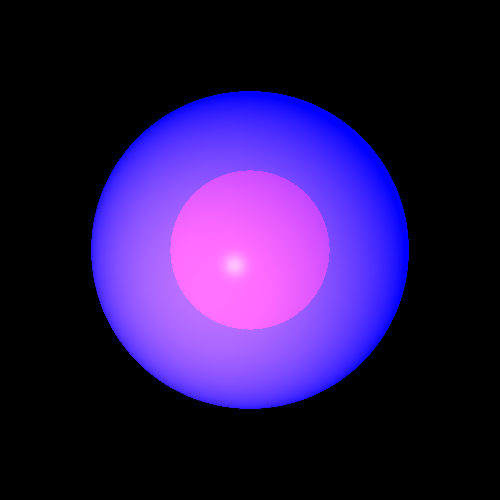
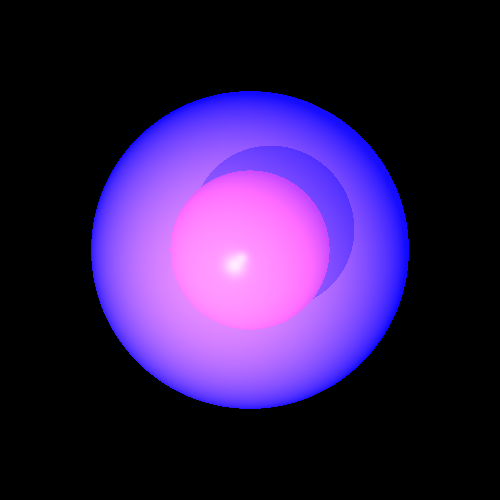
ex#7 finish level 2!

Changed region(s): [[0.21, 0.18, 0.81, 0.78]]

diff --git a/src/renderer/BasicRayTracer.java b/src/renderer/BasicRayTracer.java
@@ -29,11 +29,6 @@ public class BasicRayTracer extends RayTraceBase {
     private static final double INITIAL_K = 1.0;
 
     /**
-     * todo
-     */
-    private static final double DELTA =0.1;
-
-    /**
      * CTOR
      *
      * @param scene The scene where we look for the intersections
@@ -54,13 +49,8 @@ public class BasicRayTracer extends RayTraceBase {
      */
     @Override
     public Color traceRay(Ray ray) {
-        List<GeoPoint> points = scene.geometries.findGeoIntersections(ray);
-        if(points == null)
-            return scene.background;
-        else {
-            GeoPoint point = ray.getClosestGeoPoint(points);
-            return calcColor(point,ray);
-        }
+        GeoPoint geoPoint = findClosestIntersection(ray);
+        return geoPoint == null ? scene.background : calcColor(geoPoint,ray);
     }
 
     /**
@@ -78,7 +68,7 @@ public class BasicRayTracer extends RayTraceBase {
      * @return The color at the given point
      */
     private Color calcColor (GeoPoint closestPoint, Ray ray){
-        return calcColor(closestPoint,ray,MAX_CALC_COLOR_LEVEL,INITIAL_K).add(scene.ambientLight.getIntensity());
+        return calcColor(closestPoint, ray, MAX_CALC_COLOR_LEVEL, INITIAL_K).add(scene.ambientLight.getIntensity());
     }
 
     /**
@@ -93,8 +83,8 @@ public class BasicRayTracer extends RayTraceBase {
      */
     private  Color calcColor(GeoPoint intersection,Ray ray, int level, double k){
         Color color = intersection.geometry.getEmission();
-        color = color.add(calcLocalEffects(intersection,ray));
-        return 1 == level ? color : color.add(calcGlobalEffects(intersection,ray,level,k));
+        color = color.add(calcLocalEffects(intersection, ray));
+        return 1 == level ? color : color.add(calcGlobalEffects(intersection, ray, level, k));
     }
 
     /**
@@ -111,7 +101,7 @@ public class BasicRayTracer extends RayTraceBase {
      */
     private Color calcDiffusive(double kd,Vector l, Vector n, Color lightIntensity) {
         double ln = Math.abs(l.dotProduct(n));
-        return lightIntensity.scale(kd*ln);
+        return lightIntensity.scale(kd * ln);
     }
 
     /**
@@ -131,8 +121,8 @@ public class BasicRayTracer extends RayTraceBase {
     private Color calcSpecular(double ks, Vector l, Vector n, Vector v, int nShininess, Color lightIntensity) {
         Vector r = l.subtract(n.scale(l.dotProduct(n)*2));
         double vrMinus = v.scale(-1).dotProduct(r);
-        double vrn =Math.pow(vrMinus,nShininess);
-        return lightIntensity.scale(ks*vrn);
+        double vrn = Math.pow(vrMinus, nShininess);
+        return lightIntensity.scale(ks * vrn);
     }
 
     /**
@@ -165,8 +155,8 @@ public class BasicRayTracer extends RayTraceBase {
                 Vector l = lightSource.getL(geoPoint.point3D);
             double nl = alignZero(n.dotProduct(l));
             // check they got the same sign (the light and the camera are in the same side of the given point)
-            if(nl*nV >0 ) {
-                if (unshaded(lightSource,l, n, geoPoint)) {
+            if(nl * nV > 0) {
+                if (unshaded(lightSource, l, n, geoPoint)) {
                     Color lightIntensity = lightSource.getIntensity(geoPoint.point3D);
                     color = color.add(calcDiffusive(kd, l, n, lightIntensity), calcSpecular(ks, l, n, v, nShininess, lightIntensity));
                 }
@@ -237,7 +227,7 @@ public class BasicRayTracer extends RayTraceBase {
         Vector v = ray.getDir();
         Vector r = null;
         try {
-            r = v.subtract(n.scale(v.dotProduct(n)).scale(2).normalized());
+            r = v.subtract(n.scale(v.dotProduct(n)).scale(2)).normalized();
         }
         catch (Exception e) {
             return null;
@@ -264,11 +254,11 @@ public class BasicRayTracer extends RayTraceBase {
         // ray from point toward light direction offset by delta
         Ray lightRay = new Ray(geoPoint.point3D,lightDirection,n);
         double distance = light.getDistance(geoPoint.point3D);
-        List<GeoPoint>intersection = scene.geometries.findGeoIntersections(lightRay, light.getDistance(lightRay.getP0()));
+        List<GeoPoint> intersection = scene.geometries.findGeoIntersections(lightRay, light.getDistance(lightRay.getP0()));
         boolean flag = true;
         if (intersection != null) {
             for (int i = 0; i < intersection.size(); i++) {
-                if (intersection.get(i).geometry.getMaterial().kR == 0)
+                if (isZero(intersection.get(i).geometry.getMaterial().kT))
                     flag = false;
             }
         }

diff --git a/src/elements/Camera.java b/src/elements/Camera.java
@@ -79,7 +79,7 @@ public class Camera {
                 throw new IllegalArgumentException("vUp is not orthogonal to vTo");
             }
             // Right hand rule
-            vRight = vTo.crossProduct(vUp);
+            vRight = vTo.crossProduct(vUp).normalized();
         }
 
         /**

diff --git a/src/primitives/Material.java b/src/primitives/Material.java
@@ -15,9 +15,9 @@ public class Material {
     // (ranging from 0 to 1)
     public double kS;
 
-    public double kR = 0;
+    public double kR = 0.0;
 
-    public double kT = 0;
+    public double kT = 0.0;
 
     // How gloss the shape is
     public int nShininess = 0;

diff --git a/Tests/elements/ReflectionRefractionTests.java b/Tests/elements/ReflectionRefractionTests.java
@@ -5,7 +5,6 @@ import geometries.*;
 import primitives.*;
 import renderer.*;
 import scene.*;
-
 import java.util.LinkedList;
 
 /**
